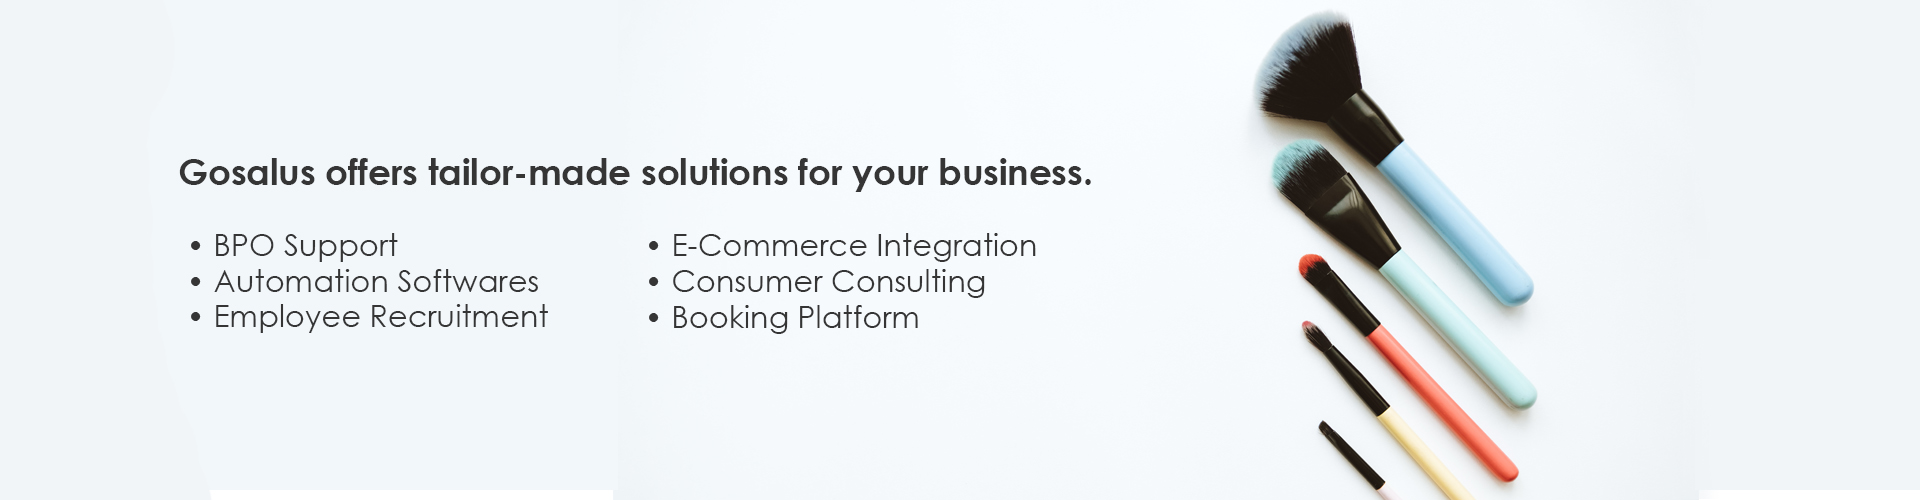
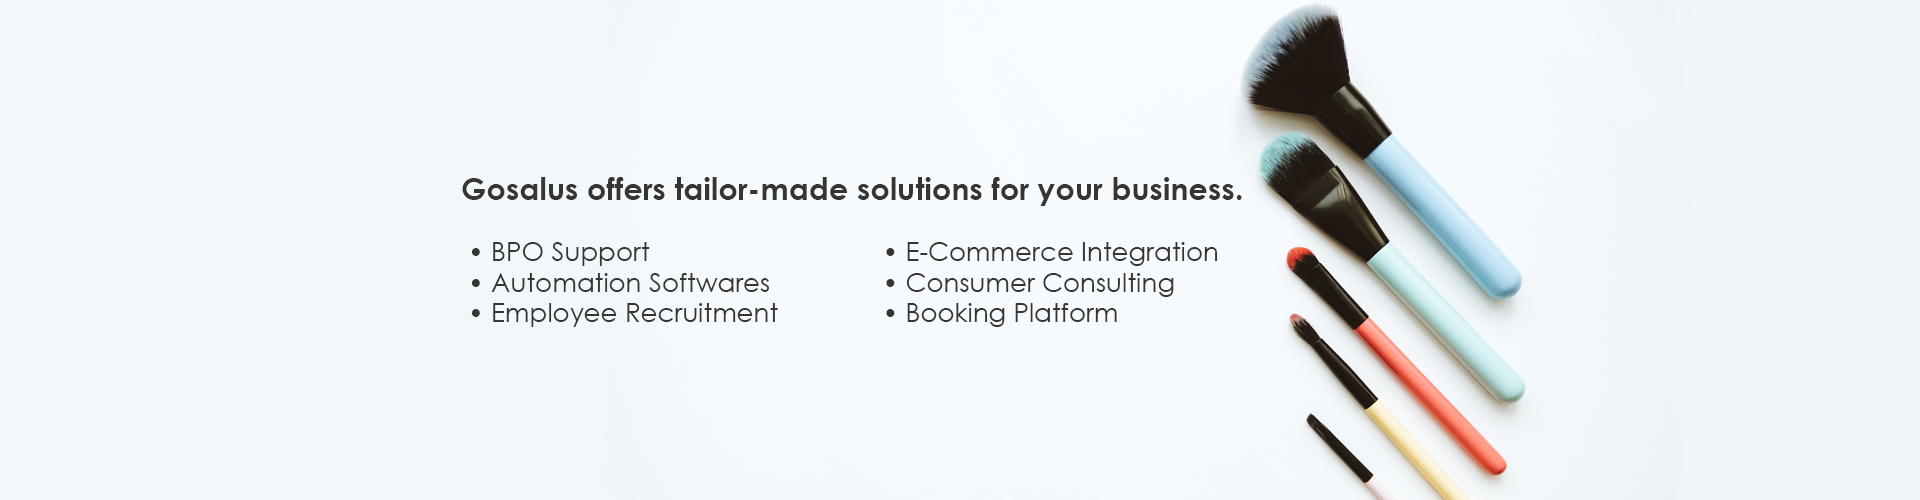
image changed

Changed region(s): [[0.0938, 0.0, 0.8125, 1.0], [0.0938, 0.45, 0.625, 0.66], [0.0938, 0.45, 0.2188, 0.51]]

diff --git a/Company/index.html b/Company/index.html
@@ -206,7 +206,19 @@
 <div class="banner_section slide_medium shop_banner_slider staggered-animation-wrap">
     <div id="carouselExampleControls" class="carousel slide carousel-fade light_arrow" data-ride="carousel">
         <div class="carousel-inner">
-            <div class="carousel-item active background_bg" data-img-src="assets/images/Go3.jpg">
+            <div class="carousel-item active background_bg" data-img-src="assets/images/Go8A.jpg">
+                <div class="banner_slide_content">
+                    <div class="container"><!-- STRART CONTAINER -->
+                        <div class="row">
+                            <div class="col-lg-7 col-9">
+                                <div class="banner_content overflow-hidden">
+                                </div>
+                            </div>
+                        </div>
+                    </div><!-- END CONTAINER-->
+                </div>
+            </div>
+            <div class="carousel-item background_bg" data-img-src="assets/images/Go3.jpg">
                 <div class="banner_slide_content">
                     <div class="container"><!-- STRART CONTAINER -->
                         <div class="row">
